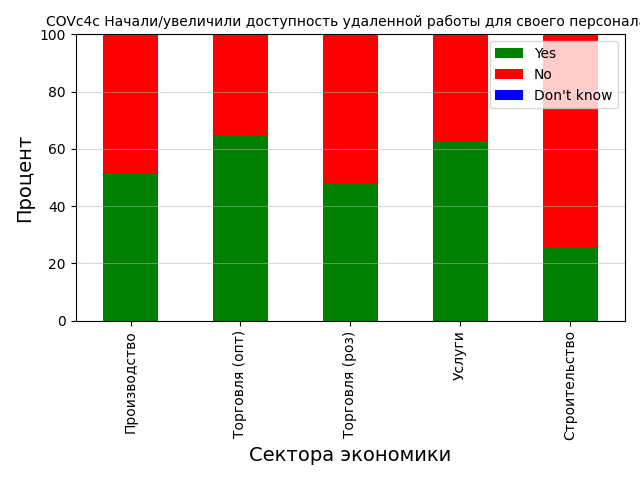
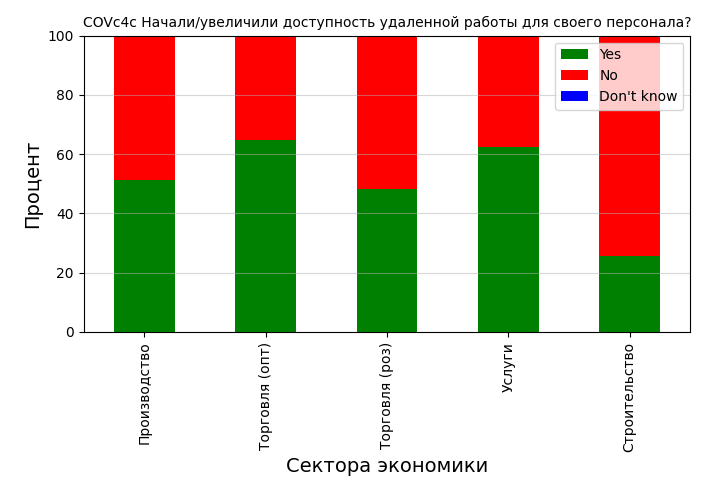
graphs by spheres for hypothesis 3 by sectors and by size

diff --git a/grafics/графики для 3 гипотезы/Графики для сферы - Строительство.py b/grafics/графики для 3 гипотезы/Графики для сферы - Строительство.py
@@ -1,0 +1,95 @@
+import pandas as pd
+import matplotlib.pyplot as plt
+
+# Загрузка данных
+covid_df = pd.read_csv("Russia-COVID follow up 2020-full data.csv")
+russia_2019_df = pd.read_csv("Russia_2019.csv")
+types_df = pd.read_excel("types.xlsx")
+
+# Определение описаний метрик
+metric_descriptions = {
+    'COVc4a': 'Начали/увеличили активность бизнеса онлайн?',
+    'COVc4b': 'Начали/увеличили доставку или предоставление товаров и услуг на вынос?',
+    'COVc4c': 'Начали/увеличили доступность удаленной работы для своего персонала?',
+    'COVc5': 'Какова сейчас доля продаж онлайн?',
+    'COVc6': 'Какая доля сотрудников работает удаленно?',
+    'c22b': 'Есть ли у фирмы веб-сайт?',
+    '_2012_2019_h5': 'В течение последних трех лет, происходило ли введение новых/улучшение старых процессов?',
+}
+
+# Классификация компаний
+russia_2019_df['Численность работников'] = pd.to_numeric(russia_2019_df['l1'], errors='coerce')
+russia_2019_df['Объем продаж'] = pd.to_numeric(russia_2019_df['d2'], errors='coerce')
+russia_2019_df = russia_2019_df.dropna(subset=['Численность работников', 'Объем продаж'])
+
+def classify_company(row):
+    if row['Численность работников'] > 250 or row['Объем продаж'] >= 2_000_000_000:
+        return 'Крупное предприятие'
+    elif row['Численность работников'] > 100 or row['Объем продаж'] >= 800_000_000:
+        return 'Среднее предприятие'
+    elif row['Численность работников'] > 15 or row['Объем продаж'] >= 120_000_000:
+        return 'Малое предприятие'
+    else:
+        return 'Микропредприятие'
+
+russia_2019_df['Категория'] = russia_2019_df.apply(classify_company, axis=1)
+
+# Фильтрация типов для сектора "Строительство"
+service_types = types_df[types_df['type'] == 'Строительство']
+merged_df = pd.merge(russia_2019_df, service_types, on='d1a1x', how='inner')
+merged_df = pd.merge(covid_df, merged_df, left_on='idstd', right_on='idstd', how='inner')
+
+# Метрики для построения графиков
+metrics_categorical = ['COVc4a', 'COVc4b', 'COVc4c', 'c22b']
+metrics_numerical = ['COVc5', 'COVc6']
+
+# Построение графиков для категориальных метрик
+for metric in metrics_categorical:
+    plt.figure(figsize=(12, 6))
+    
+    # Получаем процентные значения для метрики по категориям
+    percentage_data = merged_df.groupby('Категория')[metric].value_counts(normalize=True).unstack().fillna(0) * 100
+    percentage_data = percentage_data.reindex(['Микропредприятие', 'Малое предприятие', 'Среднее предприятие', 'Крупное предприятие'])  # Убедитесь, что сектора в нужном порядке
+
+    # Убедитесь, что все категории присутствуют
+    for category in ['Yes', 'No', "Don't know"]:
+        if category not in percentage_data.columns:
+            percentage_data[category] = 0
+
+    # Построение столбчатой диаграммы
+    percentage_data = percentage_data[['Yes', 'No', "Don't know"]]  # Убедитесь, что порядок категорий правильный
+    colors = ['green', 'red', 'blue']  # Цвета для Yes, No, Don't know
+    percentage_data.plot(kind='bar', stacked=True, color=colors)
+    
+    plt.title(f"{metric} {metric_descriptions[metric]}", fontsize=10)  # Изменен размер шрифта заголовка
+    plt.xlabel('Категория бизнеса', fontsize=14)
+    plt.ylabel('Процент', fontsize=14)
+    plt.ylim(0, 100)  # Установите пределы до 100%
+    plt.grid(axis='y', alpha=0.5)
+    plt.legend(title='Ответы', loc='upper right')
+    
+    plt.tight_layout()
+    plt.show()
+
+# Построение графиков для числовых метрик
+for metric in metrics_numerical:
+    plt.figure(figsize=(12, 6))
+    
+    # Получаем средние значения для метрики по категориям
+    merged_df[metric] = pd.to_numeric(merged_df[metric], errors='coerce')
+    average_digitalization = merged_df.groupby('Категория')[metric].mean().reset_index()
+
+    # Упорядочивание категорий
+    average_digitalization['Категория'] = pd.Categorical(average_digitalization['Категория'], categories=['Микропредприятие', 'Малое предприятие', 'Среднее предприятие', 'Крупное предприятие'], ordered=True)
+    average_digitalization = average_digitalization.sort_values('Категория')
+
+    # Построение графика
+    plt.bar(average_digitalization['Категория'], average_digitalization[metric], color='blue')
+    plt.title(f"{metric} {metric_descriptions[metric]}", fontsize=10)  # Изменен размер шрифта заголовка
+    plt.xlabel('Категория бизнеса', fontsize=14)
+    plt.ylabel('Средний уровень (%)', fontsize=14)
+    plt.xticks(rotation=45)
+    plt.ylim(0, 50)  # Установите пределы до 50%
+    plt.grid(axis='y', alpha=0.5)
+    plt.tight_layout()
+    plt.show()

diff --git a/grafics/графики для 3 гипотезы/Графики для сферы - Торговля (опт).py b/grafics/графики для 3 гипотезы/Графики для сферы - Торговля (опт).py
@@ -1,0 +1,95 @@
+import pandas as pd
+import matplotlib.pyplot as plt
+
+# Загрузка данных
+covid_df = pd.read_csv("Russia-COVID follow up 2020-full data.csv")
+russia_2019_df = pd.read_csv("Russia_2019.csv")
+types_df = pd.read_excel("types.xlsx")
+
+# Определение описаний метрик
+metric_descriptions = {
+    'COVc4a': 'Начали/увеличили активность бизнеса онлайн?',
+    'COVc4b': 'Начали/увеличили доставку или предоставление товаров и услуг на вынос?',
+    'COVc4c': 'Начали/увеличили доступность удаленной работы для своего персонала?',
+    'COVc5': 'Какова сейчас доля продаж онлайн?',
+    'COVc6': 'Какая доля сотрудников работает удаленно?',
+    'c22b': 'Есть ли у фирмы веб-сайт?',
+    '_2012_2019_h5': 'В течение последних трех лет, происходило ли введение новых/улучшение старых процессов?',
+}
+
+# Классификация компаний
+russia_2019_df['Численность работников'] = pd.to_numeric(russia_2019_df['l1'], errors='coerce')
+russia_2019_df['Объем продаж'] = pd.to_numeric(russia_2019_df['d2'], errors='coerce')
+russia_2019_df = russia_2019_df.dropna(subset=['Численность работников', 'Объем продаж'])
+
+def classify_company(row):
+    if row['Численность работников'] > 250 or row['Объем продаж'] >= 2_000_000_000:
+        return 'Крупное предприятие'
+    elif row['Численность работников'] > 100 or row['Объем продаж'] >= 800_000_000:
+        return 'Среднее предприятие'
+    elif row['Численность работников'] > 15 or row['Объем продаж'] >= 120_000_000:
+        return 'Малое предприятие'
+    else:
+        return 'Микропредприятие'
+
+russia_2019_df['Категория'] = russia_2019_df.apply(classify_company, axis=1)
+
+# Фильтрация типов для сектора "Строительство"
+service_types = types_df[types_df['type'] == 'Торговля (опт)']
+merged_df = pd.merge(russia_2019_df, service_types, on='d1a1x', how='inner')
+merged_df = pd.merge(covid_df, merged_df, left_on='idstd', right_on='idstd', how='inner')
+
+# Метрики для построения графиков
+metrics_categorical = ['COVc4a', 'COVc4b', 'COVc4c', 'c22b']
+metrics_numerical = ['COVc5', 'COVc6']
+
+# Построение графиков для категориальных метрик
+for metric in metrics_categorical:
+    plt.figure(figsize=(12, 6))
+    
+    # Получаем процентные значения для метрики по категориям
+    percentage_data = merged_df.groupby('Категория')[metric].value_counts(normalize=True).unstack().fillna(0) * 100
+    percentage_data = percentage_data.reindex(['Микропредприятие', 'Малое предприятие', 'Среднее предприятие', 'Крупное предприятие'])  # Убедитесь, что сектора в нужном порядке
+
+    # Убедитесь, что все категории присутствуют
+    for category in ['Yes', 'No', "Don't know"]:
+        if category not in percentage_data.columns:
+            percentage_data[category] = 0
+
+    # Построение столбчатой диаграммы
+    percentage_data = percentage_data[['Yes', 'No', "Don't know"]]  # Убедитесь, что порядок категорий правильный
+    colors = ['green', 'red', 'blue']  # Цвета для Yes, No, Don't know
+    percentage_data.plot(kind='bar', stacked=True, color=colors)
+    
+    plt.title(f"{metric} {metric_descriptions[metric]}", fontsize=10)  # Изменен размер шрифта заголовка
+    plt.xlabel('Категория бизнеса', fontsize=14)
+    plt.ylabel('Процент', fontsize=14)
+    plt.ylim(0, 100)  # Установите пределы до 100%
+    plt.grid(axis='y', alpha=0.5)
+    plt.legend(title='Ответы', loc='upper right')
+    
+    plt.tight_layout()
+    plt.show()
+
+# Построение графиков для числовых метрик
+for metric in metrics_numerical:
+    plt.figure(figsize=(12, 6))
+    
+    # Получаем средние значения для метрики по категориям
+    merged_df[metric] = pd.to_numeric(merged_df[metric], errors='coerce')
+    average_digitalization = merged_df.groupby('Категория')[metric].mean().reset_index()
+
+    # Упорядочивание категорий
+    average_digitalization['Категория'] = pd.Categorical(average_digitalization['Категория'], categories=['Микропредприятие', 'Малое предприятие', 'Среднее предприятие', 'Крупное предприятие'], ordered=True)
+    average_digitalization = average_digitalization.sort_values('Категория')
+
+    # Построение графика
+    plt.bar(average_digitalization['Категория'], average_digitalization[metric], color='blue')
+    plt.title(f"{metric} {metric_descriptions[metric]}", fontsize=10)  # Изменен размер шрифта заголовка
+    plt.xlabel('Категория бизнеса', fontsize=14)
+    plt.ylabel('Средний уровень (%)', fontsize=14)
+    plt.xticks(rotation=45)
+    plt.ylim(0, 50)  # Установите пределы до 50%
+    plt.grid(axis='y', alpha=0.5)
+    plt.tight_layout()
+    plt.show()

diff --git a/grafics/графики для 3 гипотезы/Графики для сферы - Торговля (роз).py b/grafics/графики для 3 гипотезы/Графики для сферы - Торговля (роз).py
@@ -1,0 +1,95 @@
+import pandas as pd
+import matplotlib.pyplot as plt
+
+# Загрузка данных
+covid_df = pd.read_csv("Russia-COVID follow up 2020-full data.csv")
+russia_2019_df = pd.read_csv("Russia_2019.csv")
+types_df = pd.read_excel("types.xlsx")
+
+# Определение описаний метрик
+metric_descriptions = {
+    'COVc4a': 'Начали/увеличили активность бизнеса онлайн?',
+    'COVc4b': 'Начали/увеличили доставку или предоставление товаров и услуг на вынос?',
+    'COVc4c': 'Начали/увеличили доступность удаленной работы для своего персонала?',
+    'COVc5': 'Какова сейчас доля продаж онлайн?',
+    'COVc6': 'Какая доля сотрудников работает удаленно?',
+    'c22b': 'Есть ли у фирмы веб-сайт?',
+    '_2012_2019_h5': 'В течение последних трех лет, происходило ли введение новых/улучшение старых процессов?',
+}
+
+# Классификация компаний
+russia_2019_df['Численность работников'] = pd.to_numeric(russia_2019_df['l1'], errors='coerce')
+russia_2019_df['Объем продаж'] = pd.to_numeric(russia_2019_df['d2'], errors='coerce')
+russia_2019_df = russia_2019_df.dropna(subset=['Численность работников', 'Объем продаж'])
+
+def classify_company(row):
+    if row['Численность работников'] > 250 or row['Объем продаж'] >= 2_000_000_000:
+        return 'Крупное предприятие'
+    elif row['Численность работников'] > 100 or row['Объем продаж'] >= 800_000_000:
+        return 'Среднее предприятие'
+    elif row['Численность работников'] > 15 or row['Объем продаж'] >= 120_000_000:
+        return 'Малое предприятие'
+    else:
+        return 'Микропредприятие'
+
+russia_2019_df['Категория'] = russia_2019_df.apply(classify_company, axis=1)
+
+# Фильтрация типов для сектора "Строительство"
+service_types = types_df[types_df['type'] == 'Торговля (роз)']
+merged_df = pd.merge(russia_2019_df, service_types, on='d1a1x', how='inner')
+merged_df = pd.merge(covid_df, merged_df, left_on='idstd', right_on='idstd', how='inner')
+
+# Метрики для построения графиков
+metrics_categorical = ['COVc4a', 'COVc4b', 'COVc4c', 'c22b']
+metrics_numerical = ['COVc5', 'COVc6']
+
+# Построение графиков для категориальных метрик
+for metric in metrics_categorical:
+    plt.figure(figsize=(12, 6))
+    
+    # Получаем процентные значения для метрики по категориям
+    percentage_data = merged_df.groupby('Категория')[metric].value_counts(normalize=True).unstack().fillna(0) * 100
+    percentage_data = percentage_data.reindex(['Микропредприятие', 'Малое предприятие', 'Среднее предприятие', 'Крупное предприятие'])  # Убедитесь, что сектора в нужном порядке
+
+    # Убедитесь, что все категории присутствуют
+    for category in ['Yes', 'No', "Don't know"]:
+        if category not in percentage_data.columns:
+            percentage_data[category] = 0
+
+    # Построение столбчатой диаграммы
+    percentage_data = percentage_data[['Yes', 'No', "Don't know"]]  # Убедитесь, что порядок категорий правильный
+    colors = ['green', 'red', 'blue']  # Цвета для Yes, No, Don't know
+    percentage_data.plot(kind='bar', stacked=True, color=colors)
+    
+    plt.title(f"{metric} {metric_descriptions[metric]}", fontsize=10)  # Изменен размер шрифта заголовка
+    plt.xlabel('Категория бизнеса', fontsize=14)
+    plt.ylabel('Процент', fontsize=14)
+    plt.ylim(0, 100)  # Установите пределы до 100%
+    plt.grid(axis='y', alpha=0.5)
+    plt.legend(title='Ответы', loc='upper right')
+    
+    plt.tight_layout()
+    plt.show()
+
+# Построение графиков для числовых метрик
+for metric in metrics_numerical:
+    plt.figure(figsize=(12, 6))
+    
+    # Получаем средние значения для метрики по категориям
+    merged_df[metric] = pd.to_numeric(merged_df[metric], errors='coerce')
+    average_digitalization = merged_df.groupby('Категория')[metric].mean().reset_index()
+
+    # Упорядочивание категорий
+    average_digitalization['Категория'] = pd.Categorical(average_digitalization['Категория'], categories=['Микропредприятие', 'Малое предприятие', 'Среднее предприятие', 'Крупное предприятие'], ordered=True)
+    average_digitalization = average_digitalization.sort_values('Категория')
+
+    # Построение графика
+    plt.bar(average_digitalization['Категория'], average_digitalization[metric], color='blue')
+    plt.title(f"{metric} {metric_descriptions[metric]}", fontsize=10)  # Изменен размер шрифта заголовка
+    plt.xlabel('Категория бизнеса', fontsize=14)
+    plt.ylabel('Средний уровень (%)', fontsize=14)
+    plt.xticks(rotation=45)
+    plt.ylim(0, 50)  # Установите пределы до 50%
+    plt.grid(axis='y', alpha=0.5)
+    plt.tight_layout()
+    plt.show()
